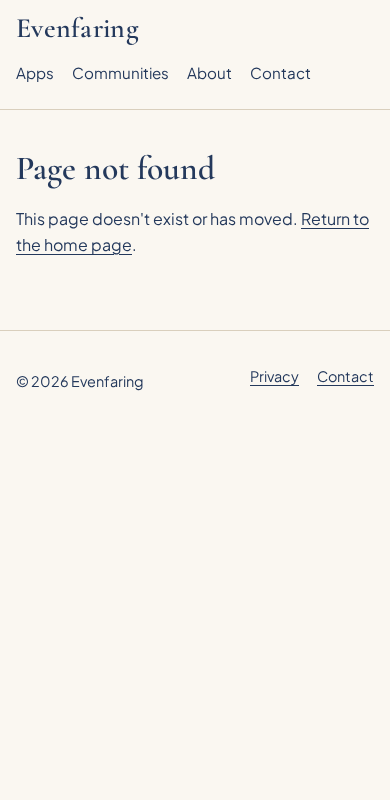
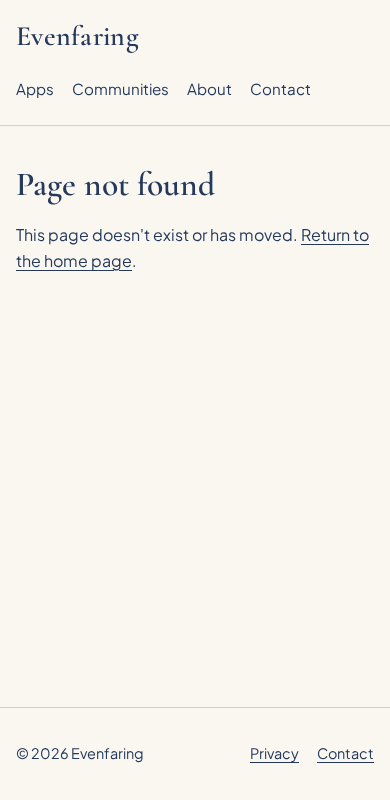
Apply Gemini review 1 fixes: dark mode, sticky footer, principles, cards, 404 paths, launch prep

diff --git a/style.css b/style.css
@@ -2,13 +2,14 @@
 @font-face{font-family:"Cormorant Garamond";src:url(assets/fonts/cormorant-garamond-latin-600-normal.woff2) format("woff2");font-weight:600;font-style:normal;font-display:swap}
 @font-face{font-family:"Cormorant Garamond";src:url(assets/fonts/cormorant-garamond-latin-400-italic.woff2) format("woff2");font-weight:400;font-style:italic;font-display:swap}
 @font-face{font-family:"Plus Jakarta Sans";src:url(assets/fonts/plus-jakarta-sans-latin-wght-normal.woff2) format("woff2");font-weight:200 800;font-display:swap}
-:root{--cream:#faf7f1;--sand:#f1ebe0;--navy:#24395c;--sea:#3f7a6b;--line:#d9cfbd}
+:root{color-scheme:light dark;--bg:#faf7f1;--surface:#f1ebe0;--card-quiet:#faf7f1;--text:#24395c;--text-2:#24395c;--line:#d9cfbd;--accent:#24395c;--on-accent:#faf7f1}
+@media(prefers-color-scheme:dark){:root{--bg:#0f1d33;--surface:#182b47;--card-quiet:#14243d;--text:#f3ede2;--text-2:#c3cad6;--line:#2f4568;--accent:#a9cbc0;--on-accent:#0f1d33}}
 *{box-sizing:border-box}
 html{-webkit-text-size-adjust:100%}
-body{margin:0;background:var(--cream);color:var(--navy);font:400 1rem/1.65 "Plus Jakarta Sans",system-ui,sans-serif}
-a{color:var(--navy);text-underline-offset:3px}
-a:focus-visible{outline:2px solid var(--navy);outline-offset:3px;border-radius:2px}
-.skip{position:absolute;left:-9999px;top:0;background:var(--navy);color:var(--cream);padding:10px 14px}
+body{margin:0;min-height:100vh;min-height:100dvh;display:flex;flex-direction:column;background:var(--bg);color:var(--text);font:400 1rem/1.65 "Plus Jakarta Sans",system-ui,sans-serif}
+a{color:var(--text);text-underline-offset:3px}
+a:focus-visible{outline:2px solid var(--accent);outline-offset:3px;border-radius:2px}
+.skip{position:absolute;left:-9999px;top:0;background:var(--text);color:var(--bg);padding:10px 14px;z-index:10}
 .skip:focus{left:16px;top:12px}
 .wrap{max-width:1040px;margin:0 auto;padding:0 16px}
 header.site{border-bottom:1px solid var(--line)}
@@ -17,30 +18,37 @@ header.site .wrap{display:flex;flex-wrap:wrap;align-items:center;justify-content
 nav ul{list-style:none;margin:0;padding:0;display:flex;flex-wrap:wrap;gap:0 18px}
 nav a{display:inline-block;padding:10px 0;min-height:44px;text-decoration:none;font-size:.95rem}
 nav a:hover,nav a[aria-current=page]{text-decoration:underline}
-main{padding:40px 0 56px}
+main{flex:1 0 auto;padding:40px 0 56px}
+.prose p a,.prose li a{padding:12px 0;margin:-12px 0}
 h1,h2,h3{font-family:"Cormorant Garamond",Georgia,serif;font-weight:600;line-height:1.15;margin:0 0 .5em}
 h1{font-size:clamp(2.1rem,7vw,3.4rem)}
 h2{font-size:1.9rem;margin-top:1.6em}
 h3{font-size:1.45rem}
 .hero{display:grid;gap:24px;align-items:center;padding-bottom:16px}
 .hero h1{font-style:italic;font-weight:400;max-width:16ch}
-.hero svg{width:100%;max-width:420px;height:auto}
+.hero-art{color:var(--text);width:100%;max-width:420px;height:auto}
 @media(min-width:768px){.hero{grid-template-columns:1.2fr 1fr}main{padding-top:64px}}
-.lede{max-width:60ch}
-.grid{display:grid;gap:16px;grid-template-columns:1fr;padding:0;list-style:none;margin:0}
-@media(min-width:768px){.grid{grid-template-columns:repeat(3,1fr)}}
-.card{background:var(--sand);border:1px solid var(--line);border-radius:14px;padding:20px;display:flex;flex-direction:column;gap:10px}
-.card.quiet{background:var(--cream)}
+.lede{max-width:60ch;font-size:1.08rem}
+.principles{list-style:none;padding:0;margin:0;display:grid;gap:20px}
+.principles h3{margin:0 0 .2em}.principles p{margin:0;color:var(--text-2)}
+.grid-2{margin-top:24px}
+.grid{display:grid;align-items:start;gap:16px;grid-template-columns:1fr;padding:0;list-style:none;margin:0}
+@media(min-width:768px){.grid{grid-template-columns:repeat(3,1fr)}.grid-2{grid-template-columns:repeat(2,1fr)}}
+.card{background:var(--surface);border:1px solid var(--line);border-radius:14px;padding:20px;display:flex;flex-direction:column;gap:10px}
+.card.quiet{background:var(--card-quiet)}
+.card h2{font-size:1.6rem;margin:0}.card h3{margin:0}
 .card img{width:64px;height:64px;border-radius:14px}
 .card p{margin:0}
-.tag{align-self:flex-start;font-size:.8rem;font-weight:600;border:1px solid var(--navy);border-radius:999px;padding:2px 10px}
-.status{font-size:.9rem;font-style:italic}
-.btn{align-self:flex-start;display:inline-block;padding:10px 16px;min-height:44px;border:1px solid var(--navy);border-radius:10px;text-decoration:none;font-weight:600}
-.btn:hover{background:var(--navy);color:var(--cream)}
+.tag{align-self:flex-start;font-size:.8rem;font-weight:600;border:1px solid var(--accent);border-radius:999px;padding:2px 10px}
+.status{font-size:.9rem;font-style:italic;color:var(--text-2)}
+.btn{align-self:flex-start;display:inline-block;padding:10px 16px;min-height:44px;border:1px solid var(--accent);border-radius:10px;text-decoration:none;font-weight:600}
+.btn:hover{background:var(--accent);color:var(--on-accent)}
 .prose{max-width:62ch}
-.note{font-size:.85rem;border:1px solid var(--line);border-radius:8px;padding:6px 10px;display:inline-block;background:var(--sand)}
+.note{font-size:.85rem;border:1px solid var(--line);border-radius:8px;padding:6px 10px;display:inline-block;background:var(--surface)}
 footer{border-top:1px solid var(--line);padding:24px 0;font-size:.9rem}
 footer .wrap{display:flex;flex-wrap:wrap;gap:8px 20px;justify-content:space-between}
 footer ul{list-style:none;margin:0;padding:0;display:flex;gap:18px}
-footer a{display:inline-block;padding:10px 0}
+footer p{margin:0;display:flex;align-items:center;min-height:44px}
+footer a{display:inline-flex;align-items:center;padding:10px 0;min-height:44px}
+nav a{display:inline-flex;align-items:center}.wordmark{min-height:44px;display:inline-flex;align-items:center}
 @media(prefers-reduced-motion:no-preference){.btn{transition:background-color .25s ease-out,color .25s ease-out}}

diff --git a/index.html b/index.html
@@ -5,13 +5,26 @@
 <meta name="viewport" content="width=device-width, initial-scale=1">
 <title>Evenfaring</title>
 <meta name="description" content="Evenfaring is a small, independent studio making steady, useful apps with care.">
+<link rel="canonical" href="https://evenfaring.com/">
 <meta property="og:type" content="website">
 <meta property="og:site_name" content="Evenfaring">
 <meta property="og:title" content="Evenfaring">
 <meta property="og:description" content="Evenfaring is a small, independent studio making steady, useful apps with care.">
-<meta name="theme-color" content="#faf7f1">
+<meta property="og:url" content="https://evenfaring.com/">
+<meta property="og:image" content="https://evenfaring.com/og-image.png">
+<meta property="og:image:width" content="1200">
+<meta property="og:image:height" content="630">
+<meta property="og:image:alt" content="The Evenfaring wordmark beside a line drawing of a path meeting the horizon">
+<meta name="twitter:card" content="summary_large_image">
+<meta name="twitter:title" content="Evenfaring">
+<meta name="twitter:description" content="Evenfaring is a small, independent studio making steady, useful apps with care.">
+<meta name="twitter:image" content="https://evenfaring.com/og-image.png">
+<meta name="color-scheme" content="light dark">
+<meta name="theme-color" content="#faf7f1" media="(prefers-color-scheme: light)">
+<meta name="theme-color" content="#0f1d33" media="(prefers-color-scheme: dark)">
 <link rel="icon" href="favicon.svg" type="image/svg+xml">
-<link rel="preload" href="assets/fonts/cormorant-garamond-latin-600-normal.woff2" as="font" type="font/woff2" crossorigin>
+<link rel="apple-touch-icon" href="apple-touch-icon.png">
+<link rel="preload" href="assets/fonts/cormorant-garamond-latin-400-italic.woff2" as="font" type="font/woff2" crossorigin>
 <link rel="stylesheet" href="style.css">
 </head>
 <body>
@@ -24,11 +37,14 @@
 <section class="hero">
 <div><h1>Small, steady apps, made with care.</h1>
 <p class="lede">Evenfaring is a one-person studio. Each app is built slowly and kept simple.</p></div>
-<svg viewBox="0 0 420 220" role="img" aria-label="A line drawing of a path winding toward the horizon" fill="none" stroke="#24395c" stroke-width="1.5" stroke-linecap="round">
-<line x1="10" y1="90" x2="410" y2="90"/>
-<circle cx="300" cy="62" r="16"/>
-<path d="M150 214 C190 180 250 168 230 140 C214 118 196 108 212 90"/>
-<path d="M270 214 C260 184 300 170 282 142 C270 122 226 108 216 90"/>
+<svg class="hero-art" viewBox="0 0 420 220" role="img" aria-label="A line drawing of a path winding toward the horizon under a low sun" fill="none" stroke="currentColor" stroke-width="1.5" stroke-linecap="round" stroke-linejoin="round">
+<path d="M10 120 H410"/>
+<path d="M10 120 C60 100 110 98 160 112 C178 117 196 120 210 120"/>
+<path d="M214 120 C250 106 300 92 350 100 C380 105 398 113 410 120"/>
+<circle cx="300" cy="72" r="16"/>
+<path d="M120 220 C150 192 196 178 194 156 C192 140 204 128 210 120"/>
+<path d="M300 220 C268 194 232 182 236 160 C239 144 222 130 214 120"/>
+<path d="M210 196 v8 M220 160 v5 M213 136 v3"/>
 </svg>
 </section>
 <section id="apps" aria-labelledby="apps-h">
@@ -39,8 +55,10 @@
 <p>A calm companion for riding out urges, one walk at a time.</p>
 <p class="status">Coming to the App Store</p>
 <a class="btn" href="https://dariusdtatum-tech.github.io/urgewalk/">Visit Urge Walk</a></li>
-<li class="card quiet"><h3>In the works</h3><p>A new app is in the works.</p></li>
-<li class="card quiet"><h3>In the works</h3><p>A new app is in the works.</p></li>
+<li class="card quiet"><h3>In the works</h3><span class="tag">All ages · Fitness</span>
+<p>A simple fitness app for every age, built around small daily movement.</p></li>
+<li class="card quiet"><h3>In the works</h3><span class="tag">All ages · Christian game</span>
+<p>A gentle Christian game for every age, made to be played and shared.</p></li>
 </ul></section>
 </div></main>
 <footer><div class="wrap">

diff --git a/404.html b/404.html
@@ -5,28 +5,29 @@
 <meta name="viewport" content="width=device-width, initial-scale=1">
 <title>Page not found · Evenfaring</title>
 <meta name="description" content="This page could not be found.">
-<meta property="og:type" content="website">
-<meta property="og:site_name" content="Evenfaring">
-<meta property="og:title" content="Page not found · Evenfaring">
-<meta property="og:description" content="This page could not be found.">
-<meta name="theme-color" content="#faf7f1">
-<link rel="icon" href="favicon.svg" type="image/svg+xml">
-<link rel="preload" href="assets/fonts/cormorant-garamond-latin-600-normal.woff2" as="font" type="font/woff2" crossorigin>
-<link rel="stylesheet" href="style.css">
+<meta name="robots" content="noindex">
+<!-- Root-relative paths use /evenfaring/ while the site lives at that path; switch them to / when evenfaring.com goes live. -->
+<meta name="color-scheme" content="light dark">
+<meta name="theme-color" content="#faf7f1" media="(prefers-color-scheme: light)">
+<meta name="theme-color" content="#0f1d33" media="(prefers-color-scheme: dark)">
+<link rel="icon" href="/evenfaring/favicon.svg" type="image/svg+xml">
+<link rel="apple-touch-icon" href="/evenfaring/apple-touch-icon.png">
+<link rel="preload" href="/evenfaring/assets/fonts/cormorant-garamond-latin-600-normal.woff2" as="font" type="font/woff2" crossorigin>
+<link rel="stylesheet" href="/evenfaring/style.css">
 </head>
 <body>
 <a class="skip" href="#main">Skip to content</a>
 <header class="site"><div class="wrap">
-<a class="wordmark" href="index.html">Evenfaring</a>
-<nav aria-label="Main"><ul><li><a href="index.html#apps">Apps</a></li><li><a href="communities.html">Communities</a></li><li><a href="about.html">About</a></li><li><a href="contact.html">Contact</a></li></ul></nav>
+<a class="wordmark" href="/evenfaring/">Evenfaring</a>
+<nav aria-label="Main"><ul><li><a href="/evenfaring/index.html#apps">Apps</a></li><li><a href="/evenfaring/communities.html">Communities</a></li><li><a href="/evenfaring/about.html">About</a></li><li><a href="/evenfaring/contact.html">Contact</a></li></ul></nav>
 </div></header>
 <main id="main"><div class="wrap">
 <div class="prose"><h1>Page not found</h1>
-<p>This page doesn't exist or has moved. <a href="index.html">Return to the home page</a>.</p></div>
+<p>This page doesn't exist or has moved. <a href="/evenfaring/">Return to the home page</a>.</p></div>
 </div></main>
 <footer><div class="wrap">
 <p>&copy; 2026 Evenfaring</p>
-<ul><li><a href="privacy.html">Privacy</a></li><li><a href="contact.html">Contact</a></li></ul>
+<ul><li><a href="/evenfaring/privacy.html">Privacy</a></li><li><a href="/evenfaring/contact.html">Contact</a></li></ul>
 </div></footer>
 </body>
 </html>

diff --git a/communities.html b/communities.html
@@ -5,12 +5,25 @@
 <meta name="viewport" content="width=device-width, initial-scale=1">
 <title>Communities · Evenfaring</title>
 <meta name="description" content="Each Evenfaring app has its own community space.">
+<link rel="canonical" href="https://evenfaring.com/communities.html">
 <meta property="og:type" content="website">
 <meta property="og:site_name" content="Evenfaring">
 <meta property="og:title" content="Communities · Evenfaring">
 <meta property="og:description" content="Each Evenfaring app has its own community space.">
-<meta name="theme-color" content="#faf7f1">
+<meta property="og:url" content="https://evenfaring.com/communities.html">
+<meta property="og:image" content="https://evenfaring.com/og-image.png">
+<meta property="og:image:width" content="1200">
+<meta property="og:image:height" content="630">
+<meta property="og:image:alt" content="The Evenfaring wordmark beside a line drawing of a path meeting the horizon">
+<meta name="twitter:card" content="summary_large_image">
+<meta name="twitter:title" content="Communities · Evenfaring">
+<meta name="twitter:description" content="Each Evenfaring app has its own community space.">
+<meta name="twitter:image" content="https://evenfaring.com/og-image.png">
+<meta name="color-scheme" content="light dark">
+<meta name="theme-color" content="#faf7f1" media="(prefers-color-scheme: light)">
+<meta name="theme-color" content="#0f1d33" media="(prefers-color-scheme: dark)">
 <link rel="icon" href="favicon.svg" type="image/svg+xml">
+<link rel="apple-touch-icon" href="apple-touch-icon.png">
 <link rel="preload" href="assets/fonts/cormorant-garamond-latin-600-normal.woff2" as="font" type="font/woff2" crossorigin>
 <link rel="stylesheet" href="style.css">
 </head>
@@ -23,12 +36,14 @@
 <main id="main"><div class="wrap">
 <div class="prose"><h1>Communities</h1>
 <p>Each app has its own community, so every space stays focused on the people it was made for.</p>
-<h2>Urge Walk Discord</h2>
-<p><span class="tag">Adults 18+</span></p>
-<p>Adults 18+, a separate space focused on health and sobriety.</p>
-<p><strong>Invite link coming soon.</strong></p>
-<h2>Future apps</h2>
-<p>Future apps will have their own all-ages spaces.</p></div>
+</div>
+<ul class="grid grid-2">
+<li class="card"><h2>Urge Walk Discord</h2><span class="tag">Adults 18+</span>
+<p>A separate space focused on health and sobriety.</p>
+<p class="status">Invite link to be shared here.</p></li>
+<li class="card quiet"><h2>Future apps</h2><span class="tag">All ages</span>
+<p>The upcoming fitness app and Christian game will each have their own space.</p></li>
+</ul>
 </div></main>
 <footer><div class="wrap">
 <p>&copy; 2026 Evenfaring</p>

diff --git a/about.html b/about.html
@@ -5,12 +5,25 @@
 <meta name="viewport" content="width=device-width, initial-scale=1">
 <title>About · Evenfaring</title>
 <meta name="description" content="About Evenfaring, a one-person app studio.">
+<link rel="canonical" href="https://evenfaring.com/about.html">
 <meta property="og:type" content="website">
 <meta property="og:site_name" content="Evenfaring">
 <meta property="og:title" content="About · Evenfaring">
 <meta property="og:description" content="About Evenfaring, a one-person app studio.">
-<meta name="theme-color" content="#faf7f1">
+<meta property="og:url" content="https://evenfaring.com/about.html">
+<meta property="og:image" content="https://evenfaring.com/og-image.png">
+<meta property="og:image:width" content="1200">
+<meta property="og:image:height" content="630">
+<meta property="og:image:alt" content="The Evenfaring wordmark beside a line drawing of a path meeting the horizon">
+<meta name="twitter:card" content="summary_large_image">
+<meta name="twitter:title" content="About · Evenfaring">
+<meta name="twitter:description" content="About Evenfaring, a one-person app studio.">
+<meta name="twitter:image" content="https://evenfaring.com/og-image.png">
+<meta name="color-scheme" content="light dark">
+<meta name="theme-color" content="#faf7f1" media="(prefers-color-scheme: light)">
+<meta name="theme-color" content="#0f1d33" media="(prefers-color-scheme: dark)">
 <link rel="icon" href="favicon.svg" type="image/svg+xml">
+<link rel="apple-touch-icon" href="apple-touch-icon.png">
 <link rel="preload" href="assets/fonts/cormorant-garamond-latin-600-normal.woff2" as="font" type="font/woff2" crossorigin>
 <link rel="stylesheet" href="style.css">
 </head>
@@ -22,7 +35,14 @@
 </div></header>
 <main id="main"><div class="wrap">
 <div class="prose"><h1>About</h1>
-<p>Evenfaring is a one-person studio building small, useful apps with care.</p></div>
+<p class="lede">Evenfaring is a one-person studio building small, useful apps with care.</p>
+<h2>How the studio works</h2>
+<ul class="principles">
+<li><h3>Small and focused</h3><p>Each app does one thing and tries to do it well.</p></li>
+<li><h3>Built slowly</h3><p>Apps ship when they are ready, then get steady, careful updates.</p></li>
+<li><h3>Honest pricing</h3><p>No ads. Core features stay free. Any paid extras are optional and clearly priced up front.</p></li>
+<li><h3>Privacy by design</h3><p>Apps collect only what they need. Each one has a plain-language privacy policy, and your data is never sold.</p></li>
+</ul></div>
 </div></main>
 <footer><div class="wrap">
 <p>&copy; 2026 Evenfaring</p>

diff --git a/privacy.html b/privacy.html
@@ -4,13 +4,26 @@
 <meta charset="utf-8">
 <meta name="viewport" content="width=device-width, initial-scale=1">
 <title>Privacy · Evenfaring</title>
-<meta name="description" content="Privacy for the Evenfaring studio website.">
+<meta name="description" content="Privacy policy for the Evenfaring studio website.">
+<link rel="canonical" href="https://evenfaring.com/privacy.html">
 <meta property="og:type" content="website">
 <meta property="og:site_name" content="Evenfaring">
 <meta property="og:title" content="Privacy · Evenfaring">
-<meta property="og:description" content="Privacy for the Evenfaring studio website.">
-<meta name="theme-color" content="#faf7f1">
+<meta property="og:description" content="Privacy policy for the Evenfaring studio website.">
+<meta property="og:url" content="https://evenfaring.com/privacy.html">
+<meta property="og:image" content="https://evenfaring.com/og-image.png">
+<meta property="og:image:width" content="1200">
+<meta property="og:image:height" content="630">
+<meta property="og:image:alt" content="The Evenfaring wordmark beside a line drawing of a path meeting the horizon">
+<meta name="twitter:card" content="summary_large_image">
+<meta name="twitter:title" content="Privacy · Evenfaring">
+<meta name="twitter:description" content="Privacy policy for the Evenfaring studio website.">
+<meta name="twitter:image" content="https://evenfaring.com/og-image.png">
+<meta name="color-scheme" content="light dark">
+<meta name="theme-color" content="#faf7f1" media="(prefers-color-scheme: light)">
+<meta name="theme-color" content="#0f1d33" media="(prefers-color-scheme: dark)">
 <link rel="icon" href="favicon.svg" type="image/svg+xml">
+<link rel="apple-touch-icon" href="apple-touch-icon.png">
 <link rel="preload" href="assets/fonts/cormorant-garamond-latin-600-normal.woff2" as="font" type="font/woff2" crossorigin>
 <link rel="stylesheet" href="style.css">
 </head>

diff --git a/contact.html b/contact.html
@@ -5,12 +5,25 @@
 <meta name="viewport" content="width=device-width, initial-scale=1">
 <title>Contact · Evenfaring</title>
 <meta name="description" content="Get in touch with Evenfaring.">
+<link rel="canonical" href="https://evenfaring.com/contact.html">
 <meta property="og:type" content="website">
 <meta property="og:site_name" content="Evenfaring">
 <meta property="og:title" content="Contact · Evenfaring">
 <meta property="og:description" content="Get in touch with Evenfaring.">
-<meta name="theme-color" content="#faf7f1">
+<meta property="og:url" content="https://evenfaring.com/contact.html">
+<meta property="og:image" content="https://evenfaring.com/og-image.png">
+<meta property="og:image:width" content="1200">
+<meta property="og:image:height" content="630">
+<meta property="og:image:alt" content="The Evenfaring wordmark beside a line drawing of a path meeting the horizon">
+<meta name="twitter:card" content="summary_large_image">
+<meta name="twitter:title" content="Contact · Evenfaring">
+<meta name="twitter:description" content="Get in touch with Evenfaring.">
+<meta name="twitter:image" content="https://evenfaring.com/og-image.png">
+<meta name="color-scheme" content="light dark">
+<meta name="theme-color" content="#faf7f1" media="(prefers-color-scheme: light)">
+<meta name="theme-color" content="#0f1d33" media="(prefers-color-scheme: dark)">
 <link rel="icon" href="favicon.svg" type="image/svg+xml">
+<link rel="apple-touch-icon" href="apple-touch-icon.png">
 <link rel="preload" href="assets/fonts/cormorant-garamond-latin-600-normal.woff2" as="font" type="font/woff2" crossorigin>
 <link rel="stylesheet" href="style.css">
 </head>
